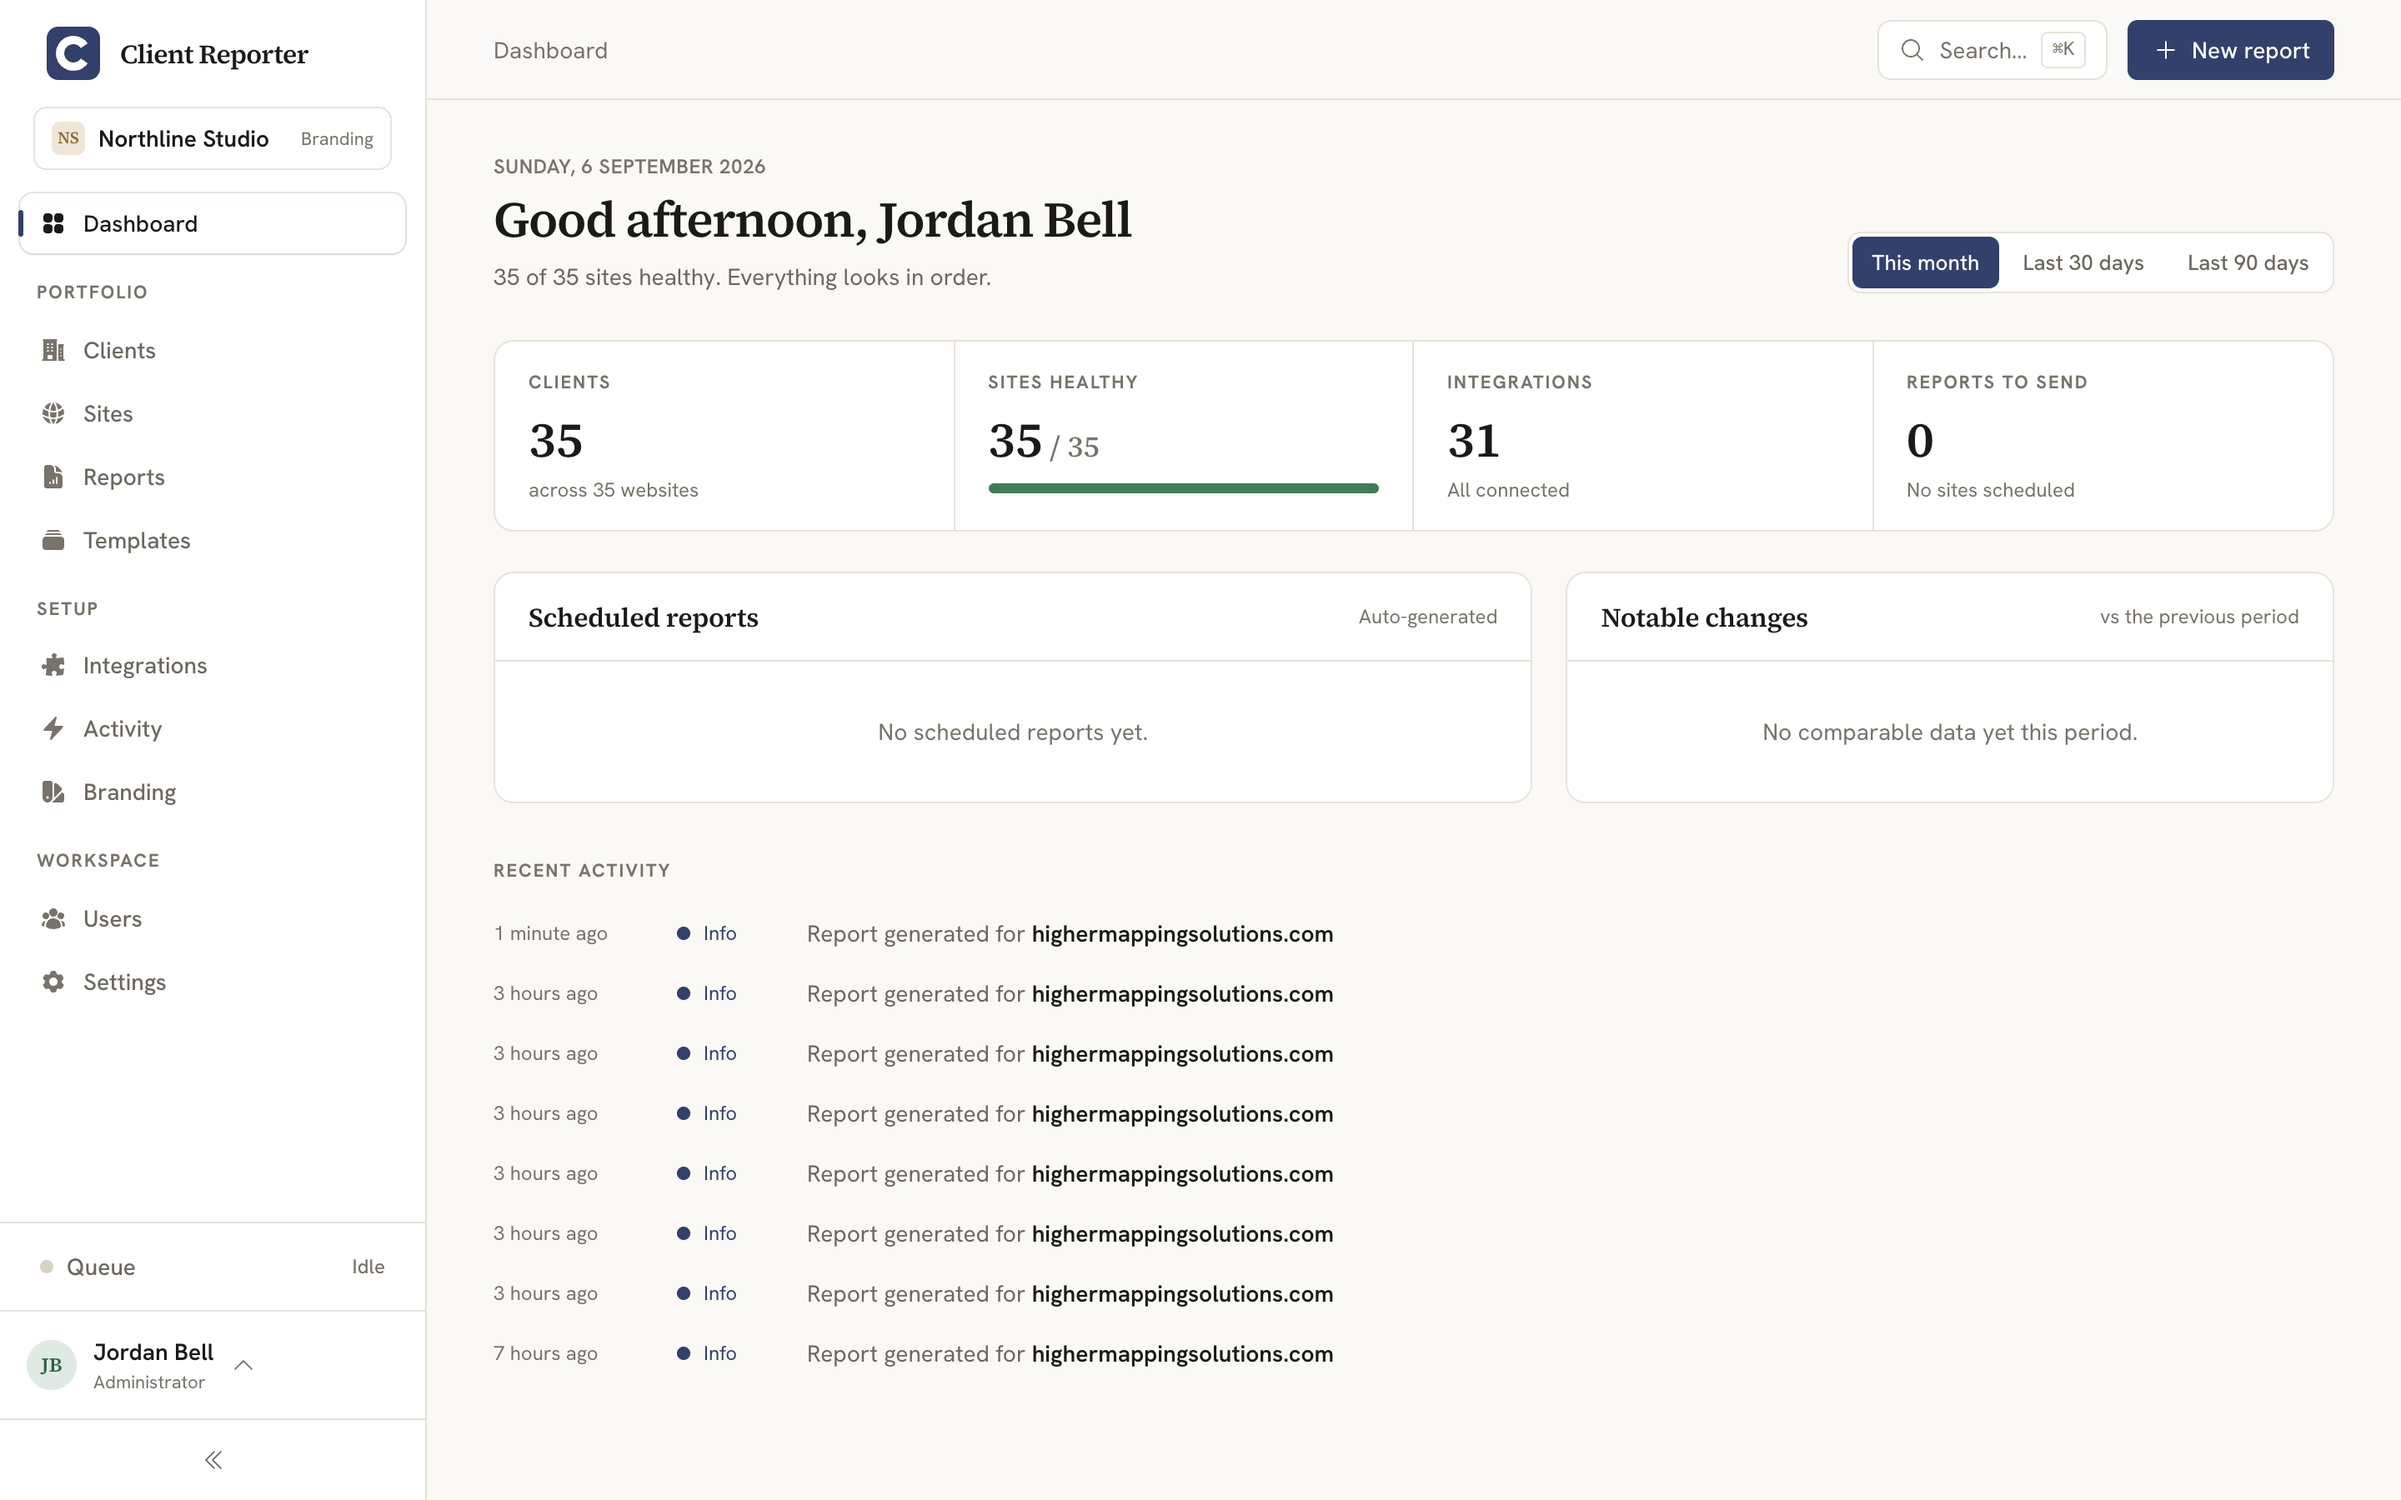
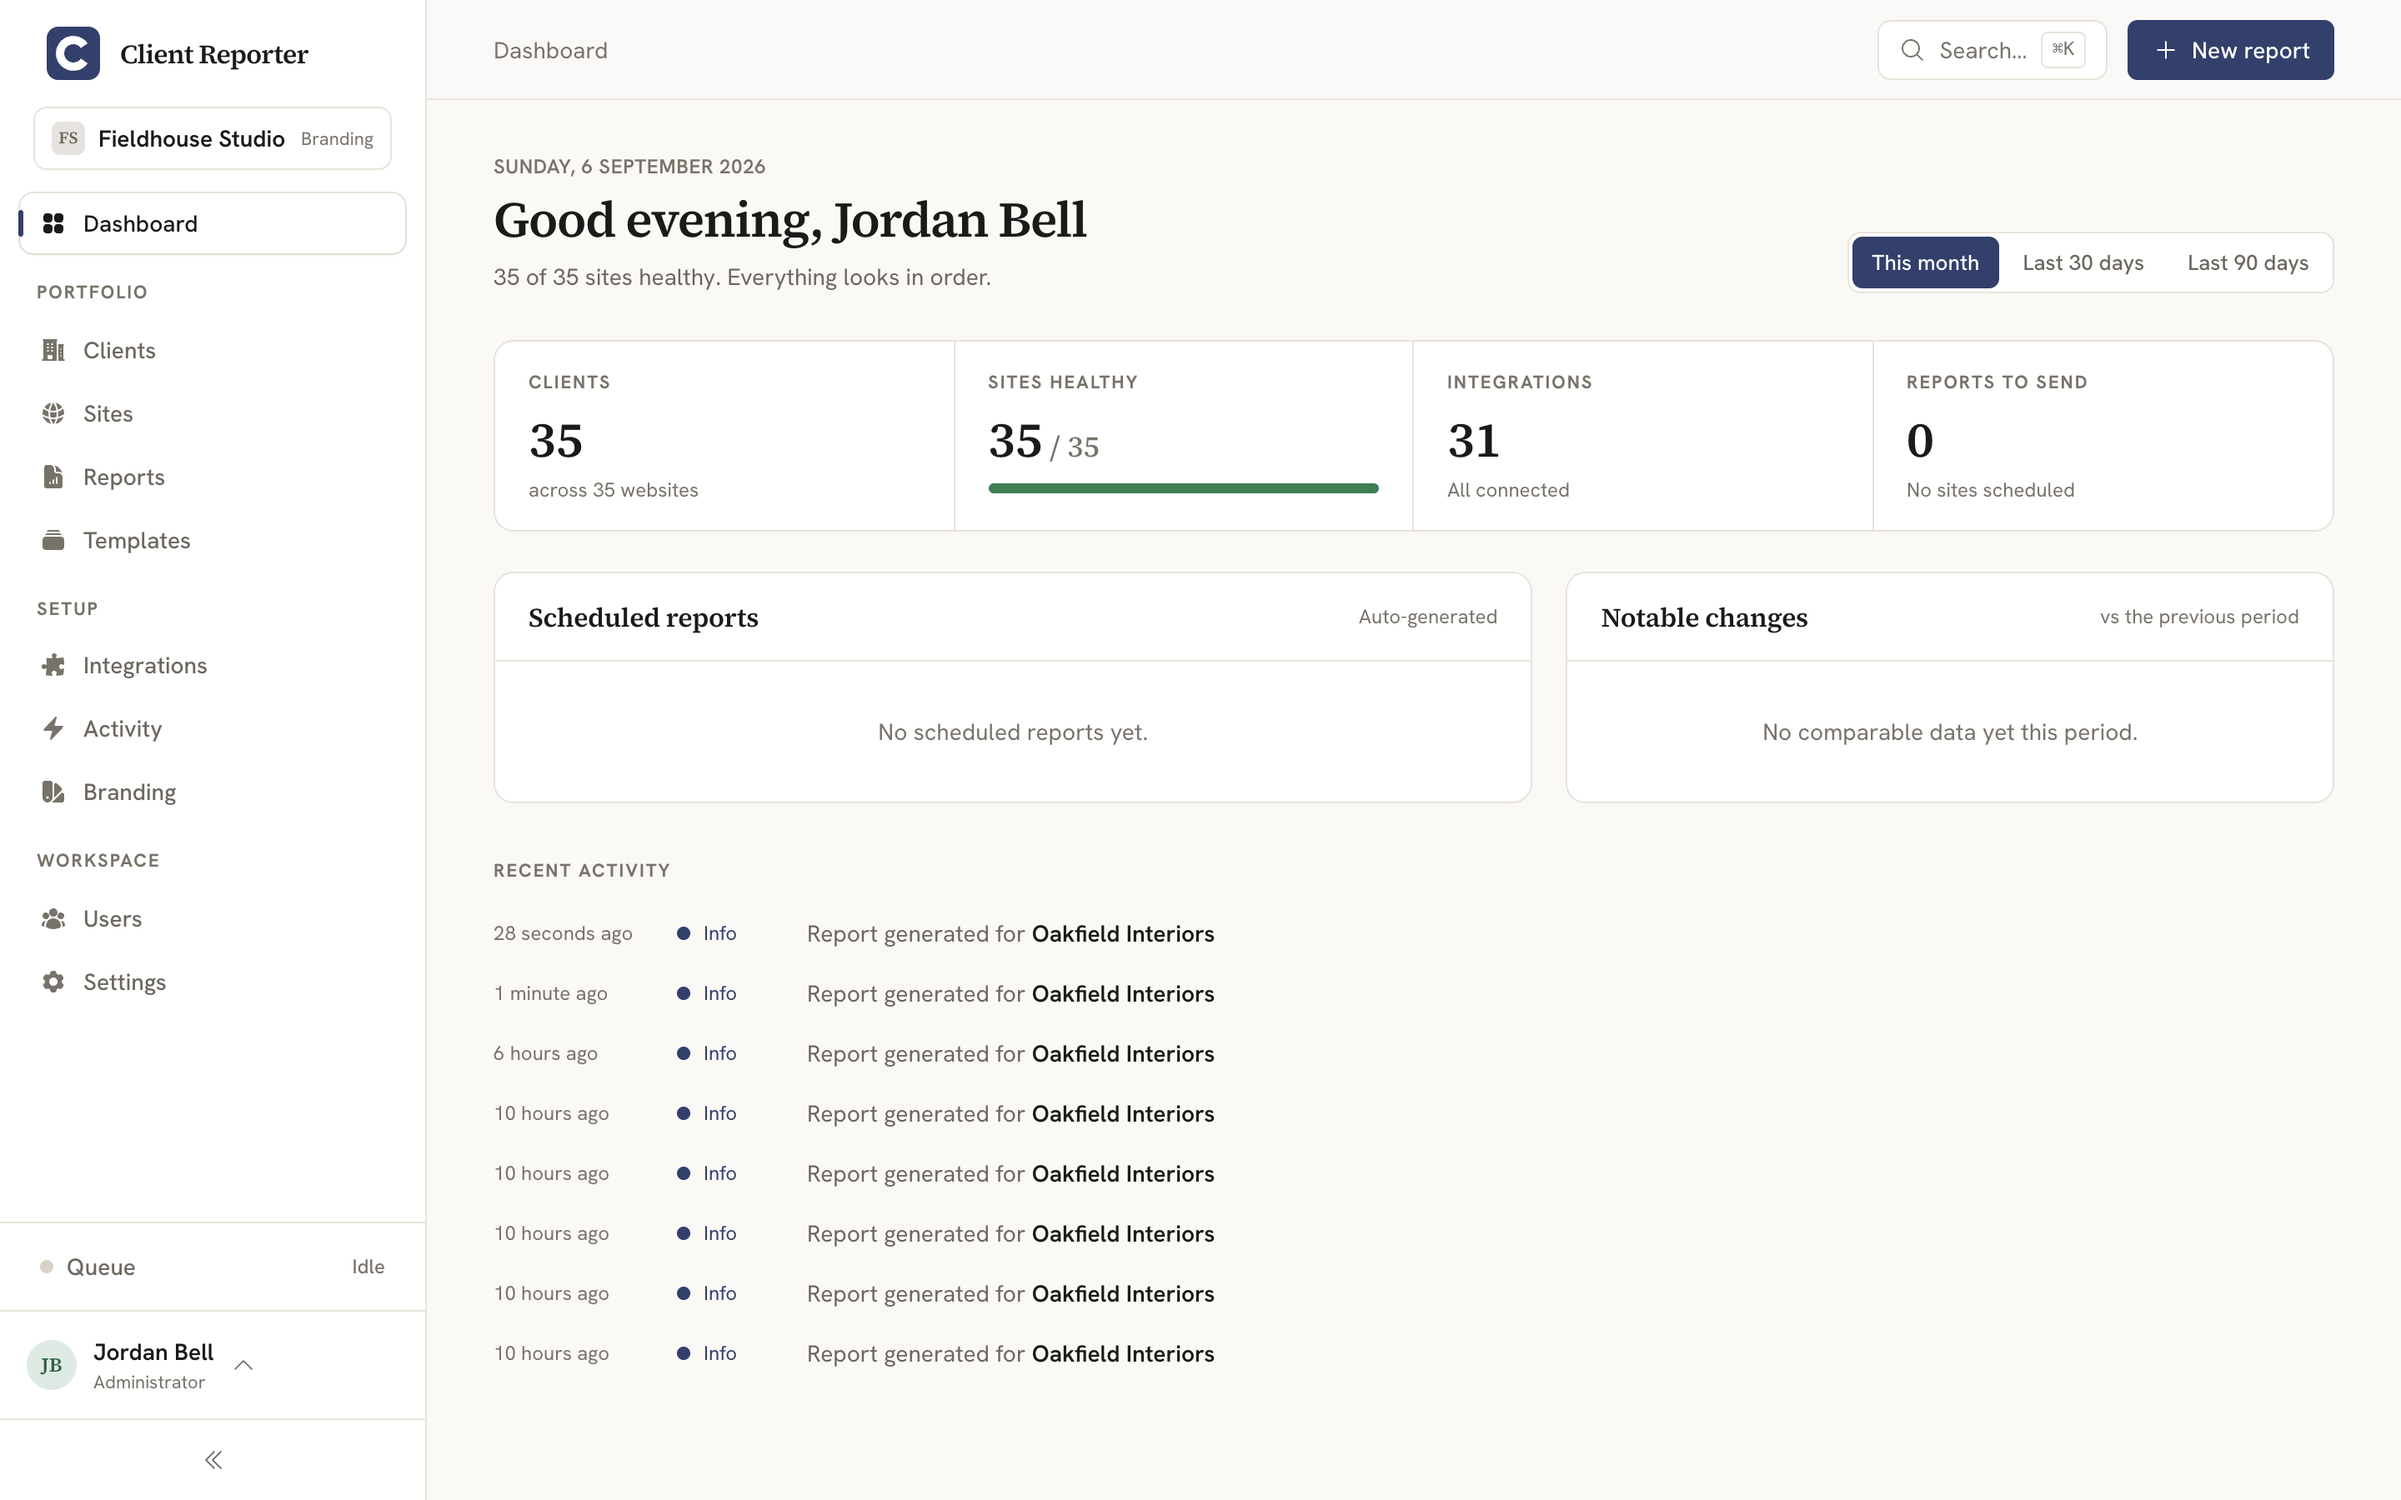
Use Fieldhouse Studio and a made-up client for the example agency
The example agency shown across the dashboard and sample report is now
Fieldhouse Studio (tagline "Websites, built to last.") reporting on a
made-up client, Oakfield Interiors (oakfield-interiors.co.uk), keeping
the real maker credit (Coysh Digital) separate from the demo. Refreshes
the hero, report-example and full sample-report images to match.

diff --git a/sample-report.md b/sample-report.md
@@ -8,7 +8,7 @@ pageClass: sample-page
 
 # A report it made
 
-This is a real report Client Reporter put together — nothing mocked up. It's branded end to end as the agency — Northline Studio, an example agency, here, with no Client Reporter name anywhere a client would see. A real report is a web page you share with a link, or send as a PDF or an email; this is a picture of one.
+This is a real report Client Reporter put together — nothing mocked up. It's branded end to end as the agency — Fieldhouse Studio, an example agency, here, with no Client Reporter name anywhere a client would see. A real report is a web page you share with a link, or send as a PDF or an email; this is a picture of one.
 
 <p class="sample-actions">
   <a class="sample-btn" href="/docs/installation">Install it</a>
